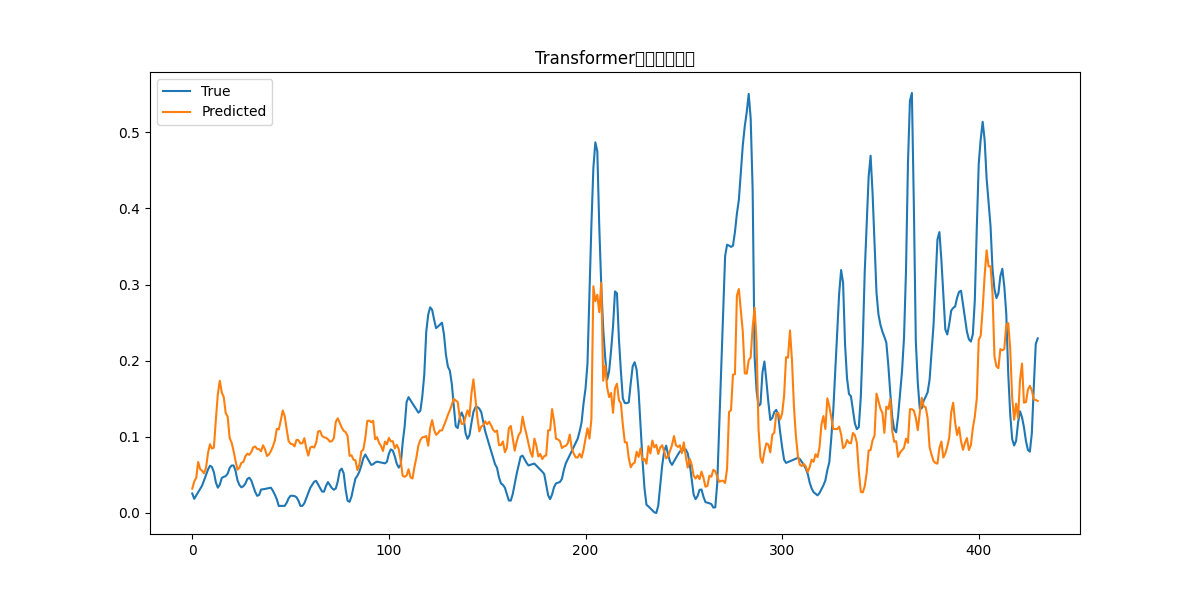
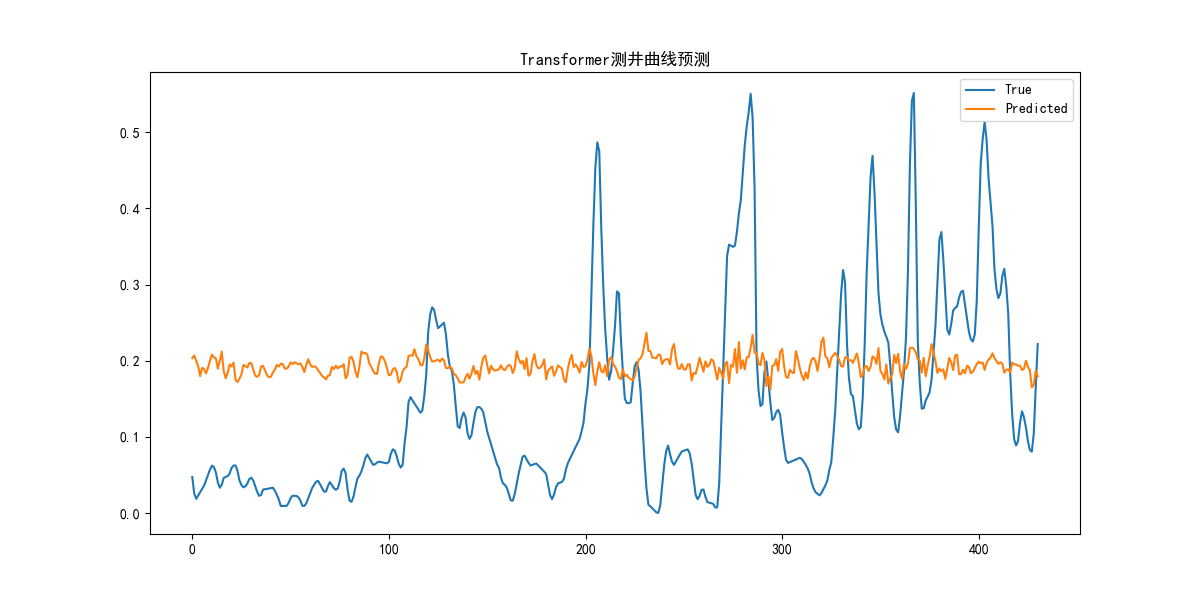
实验15：改进Transformer（MWLT网络）

diff --git a/Transformer/code/transformer/transformer_mask_实验15.py b/Transformer/code/transformer/transformer_mask_实验15.py
@@ -40,7 +40,7 @@ look_back = 50
 X, y = [], []
 for i in range(len(data_x) - look_back):
     X.append(data_x[i:i + look_back])
-    y.append(data_y[i + look_back])
+    y.append(data_y[i:i + look_back])
 X = np.array(X)
 y = np.array(y)
 
@@ -52,11 +52,11 @@ test_features = X[train_size:]
 test_target = y[train_size:]
 
 train_features = torch.FloatTensor(train_features).to(device)
-train_target = torch.FloatTensor(train_target).view(-1, 1).to(device)
+train_target = torch.FloatTensor(train_target).to(device)
 test_features = torch.FloatTensor(test_features).to(device)
 
 # 定义批次大小
-batch_size = 8  # 可以根据需求调整
+batch_size = 1  # 可以根据需求调整
 
 # 使用DataLoader创建数据加载器
 train_dataset = torch.utils.data.TensorDataset(train_features, train_target)
@@ -383,7 +383,7 @@ class Decoder(nn.Module):
         for model in self.rescnn:
             x = model(x)
         x = self.out_layer(x)
-        x = x[:, :, -1] # 取最后一个时间步的输出
+        # x = x[:, :, -1] # 取最后一个时间步的输出
         return x
 
 
@@ -447,12 +447,12 @@ def test():
     return np.mean(val_epoch_loss)
 
 
-epochs = 200
+epochs = 20
 optimizer = torch.optim.Adam(model.parameters(), lr=0.0001)
 criterion = torch.nn.MSELoss().to(device)
 
 # 训练模型
-train_model = False
+train_model = True
 if train_model:
     val_loss = []
     train_loss = []
@@ -466,7 +466,7 @@ if train_model:
             targets = targets.float()
 
             outputs = model(inputs)
-
+            outputs = outputs.squeeze(dim=0)
             loss = criterion(outputs.float(), targets.float())
             # 反向传播
             optimizer.zero_grad()  # 清零梯度
@@ -531,17 +531,18 @@ model.eval()
 
 # 8. 测试集预测
 with torch.no_grad():
-    predicted = model(test_features)
+    predicted = model(train_features)
 predicted = predicted.cpu().numpy()
-
+predicted = predicted[:, :, -1]
 # 9. 绘制真实数据和预测数据的曲线
 plt.figure(figsize=(12, 6))
+test_target = train_target[:,-1].cpu().numpy()
 plt.plot(test_target, label='True')
 plt.plot(predicted, label='Predicted')
 plt.title('Transformer测井曲线预测')
 plt.legend()
 # 使用savefig保存图表为文件
-plt.savefig(('../../result/transformer/experiment15_epoch_{}.png').format(epochs))  # 保存为PNG格式的文件
+plt.savefig(('../../result/transformer/experiment15_batch{}_epoch_{}.png').format(batch_size,epochs))  # 保存为PNG格式的文件
 plt.show()
 
 # 10. Calculate RMSE、MAPE
@@ -550,10 +551,10 @@ rmse = np.sqrt(np.mean((test_target - predicted) ** 2))
 mae = np.mean(np.abs(test_target - predicted))
 mape = np.mean(np.abs((test_target - predicted) / test_target))
 print("MSE", mse)  # 0.09753167668446872
-print("RMSE", rmse) # 0.3123006190907548
-print("MAPE:", mape) # 180.2477638456806 %
+print("RMSE", rmse)  # 0.3123006190907548
+print("MAPE:", mape)  # 180.2477638456806 %
 # 创建一个txt文件并将结果写入其中
-resultpath = ('../../result/transformer/experiment15_epoch_{}.txt').format(epochs)
+resultpath = ('../../result/transformer/experiment15_batch{}_epoch_{}.txt').format(batch_size,epochs)
 with open(resultpath, "w") as file:
     file.write(f"MSE: {mse}\n")
     file.write(f"RMSE: {rmse}\n")

diff --git a/Transformer/code/transformer/transformer_mask_实验10.py b/Transformer/code/transformer/transformer_mask_实验10.py
@@ -457,7 +457,7 @@ optimizer = torch.optim.Adam(model.parameters(), lr=0.0001)
 criterion = torch.nn.MSELoss().to(device)
 
 # 训练模型
-train_model = True
+train_model = False
 if train_model:
     val_loss = []
     train_loss = []
@@ -488,7 +488,7 @@ if train_model:
             best_test_loss = val_epoch_loss
             best_model = model
             print("best_test_loss ---------------------------", best_test_loss)
-            torch.save(best_model.state_dict(), './pth/best_Transformer_trainModel10.pth')
+            torch.save(best_model.state_dict(), '../pth/best_Transformer_trainModel10.pth')
 
     # 加载上一次的loss
     # train_loss = np.load('modelloss/loss.npz')['y1'].reshape(-1, 1)
@@ -513,7 +513,7 @@ if train_model:
 
 # 加载模型预测
 model = Transformer(in_channels=6, out_channels=1, feature_num=64).to(device)
-model.load_state_dict(torch.load('./pth/best_Transformer_trainModel10.pth'))
+model.load_state_dict(torch.load('../pth/best_Transformer_trainModel10.pth'))
 model.to(device)
 model.eval()
 # 在对模型进行评估时，应该配合使用wit torch.nograd() 与 model.eval()
@@ -523,7 +523,7 @@ y_pred = []
 y_true = []
 with torch.no_grad():
     val_epoch_loss = []
-    for index, (inputs, targets) in enumerate(TestDataLoader):
+    for index, (inputs, targets) in enumerate(TrainDataLoader):
         inputs = torch.tensor(inputs).to(device)
         targets = torch.tensor(targets).to(device)
         inputs = inputs.float()

diff --git a/README.md b/README.md
@@ -28,6 +28,13 @@
 2023/09/29：
 实验15: 想办法提升模型精度
 
+2023/10/8：路径：Transformer/code/traditional
+对比实验：
+LSTM1.py：LSTM进行测井曲线预测（拟合）
+LSTM2.py：增加output数量实现未来测井数据预测（效果不好）
+LSTM3.py：递归的方式实现未来测井数据预测
+LSTM+CNN.py：LSTM+CNN网络实现预测
+GRU1.py：GRU网络进行测井曲线预测
 
 
 
